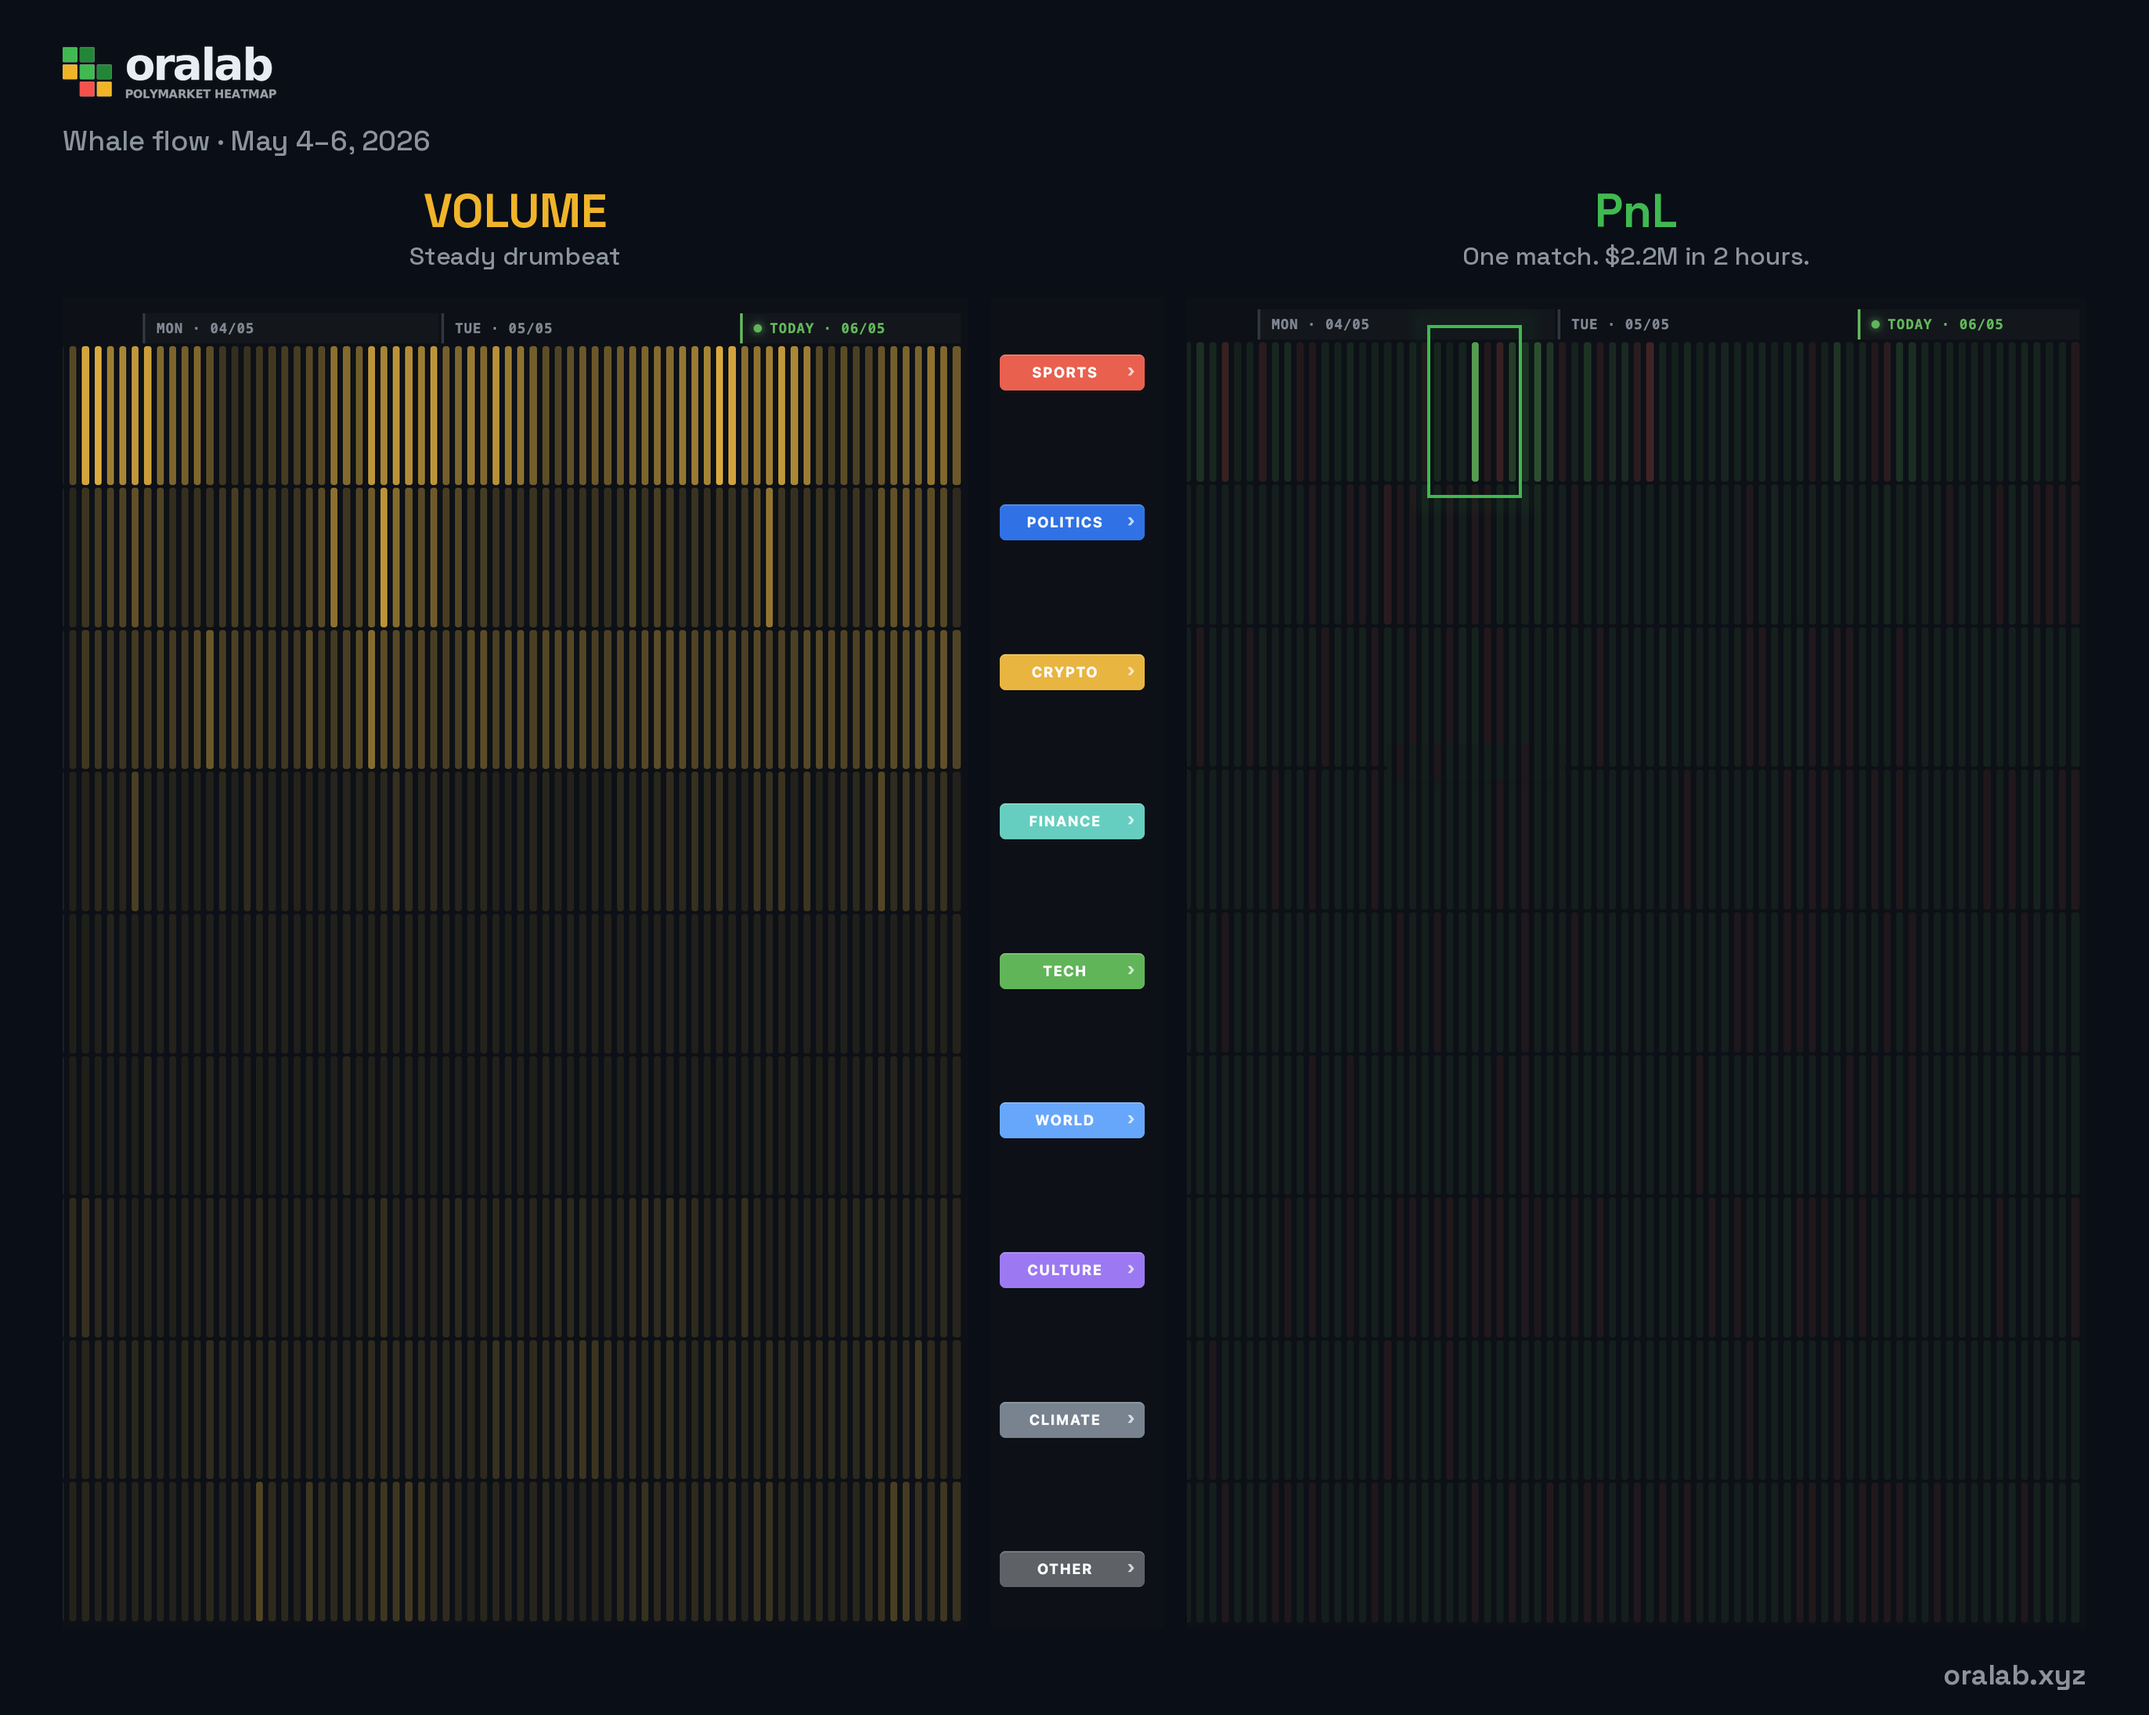
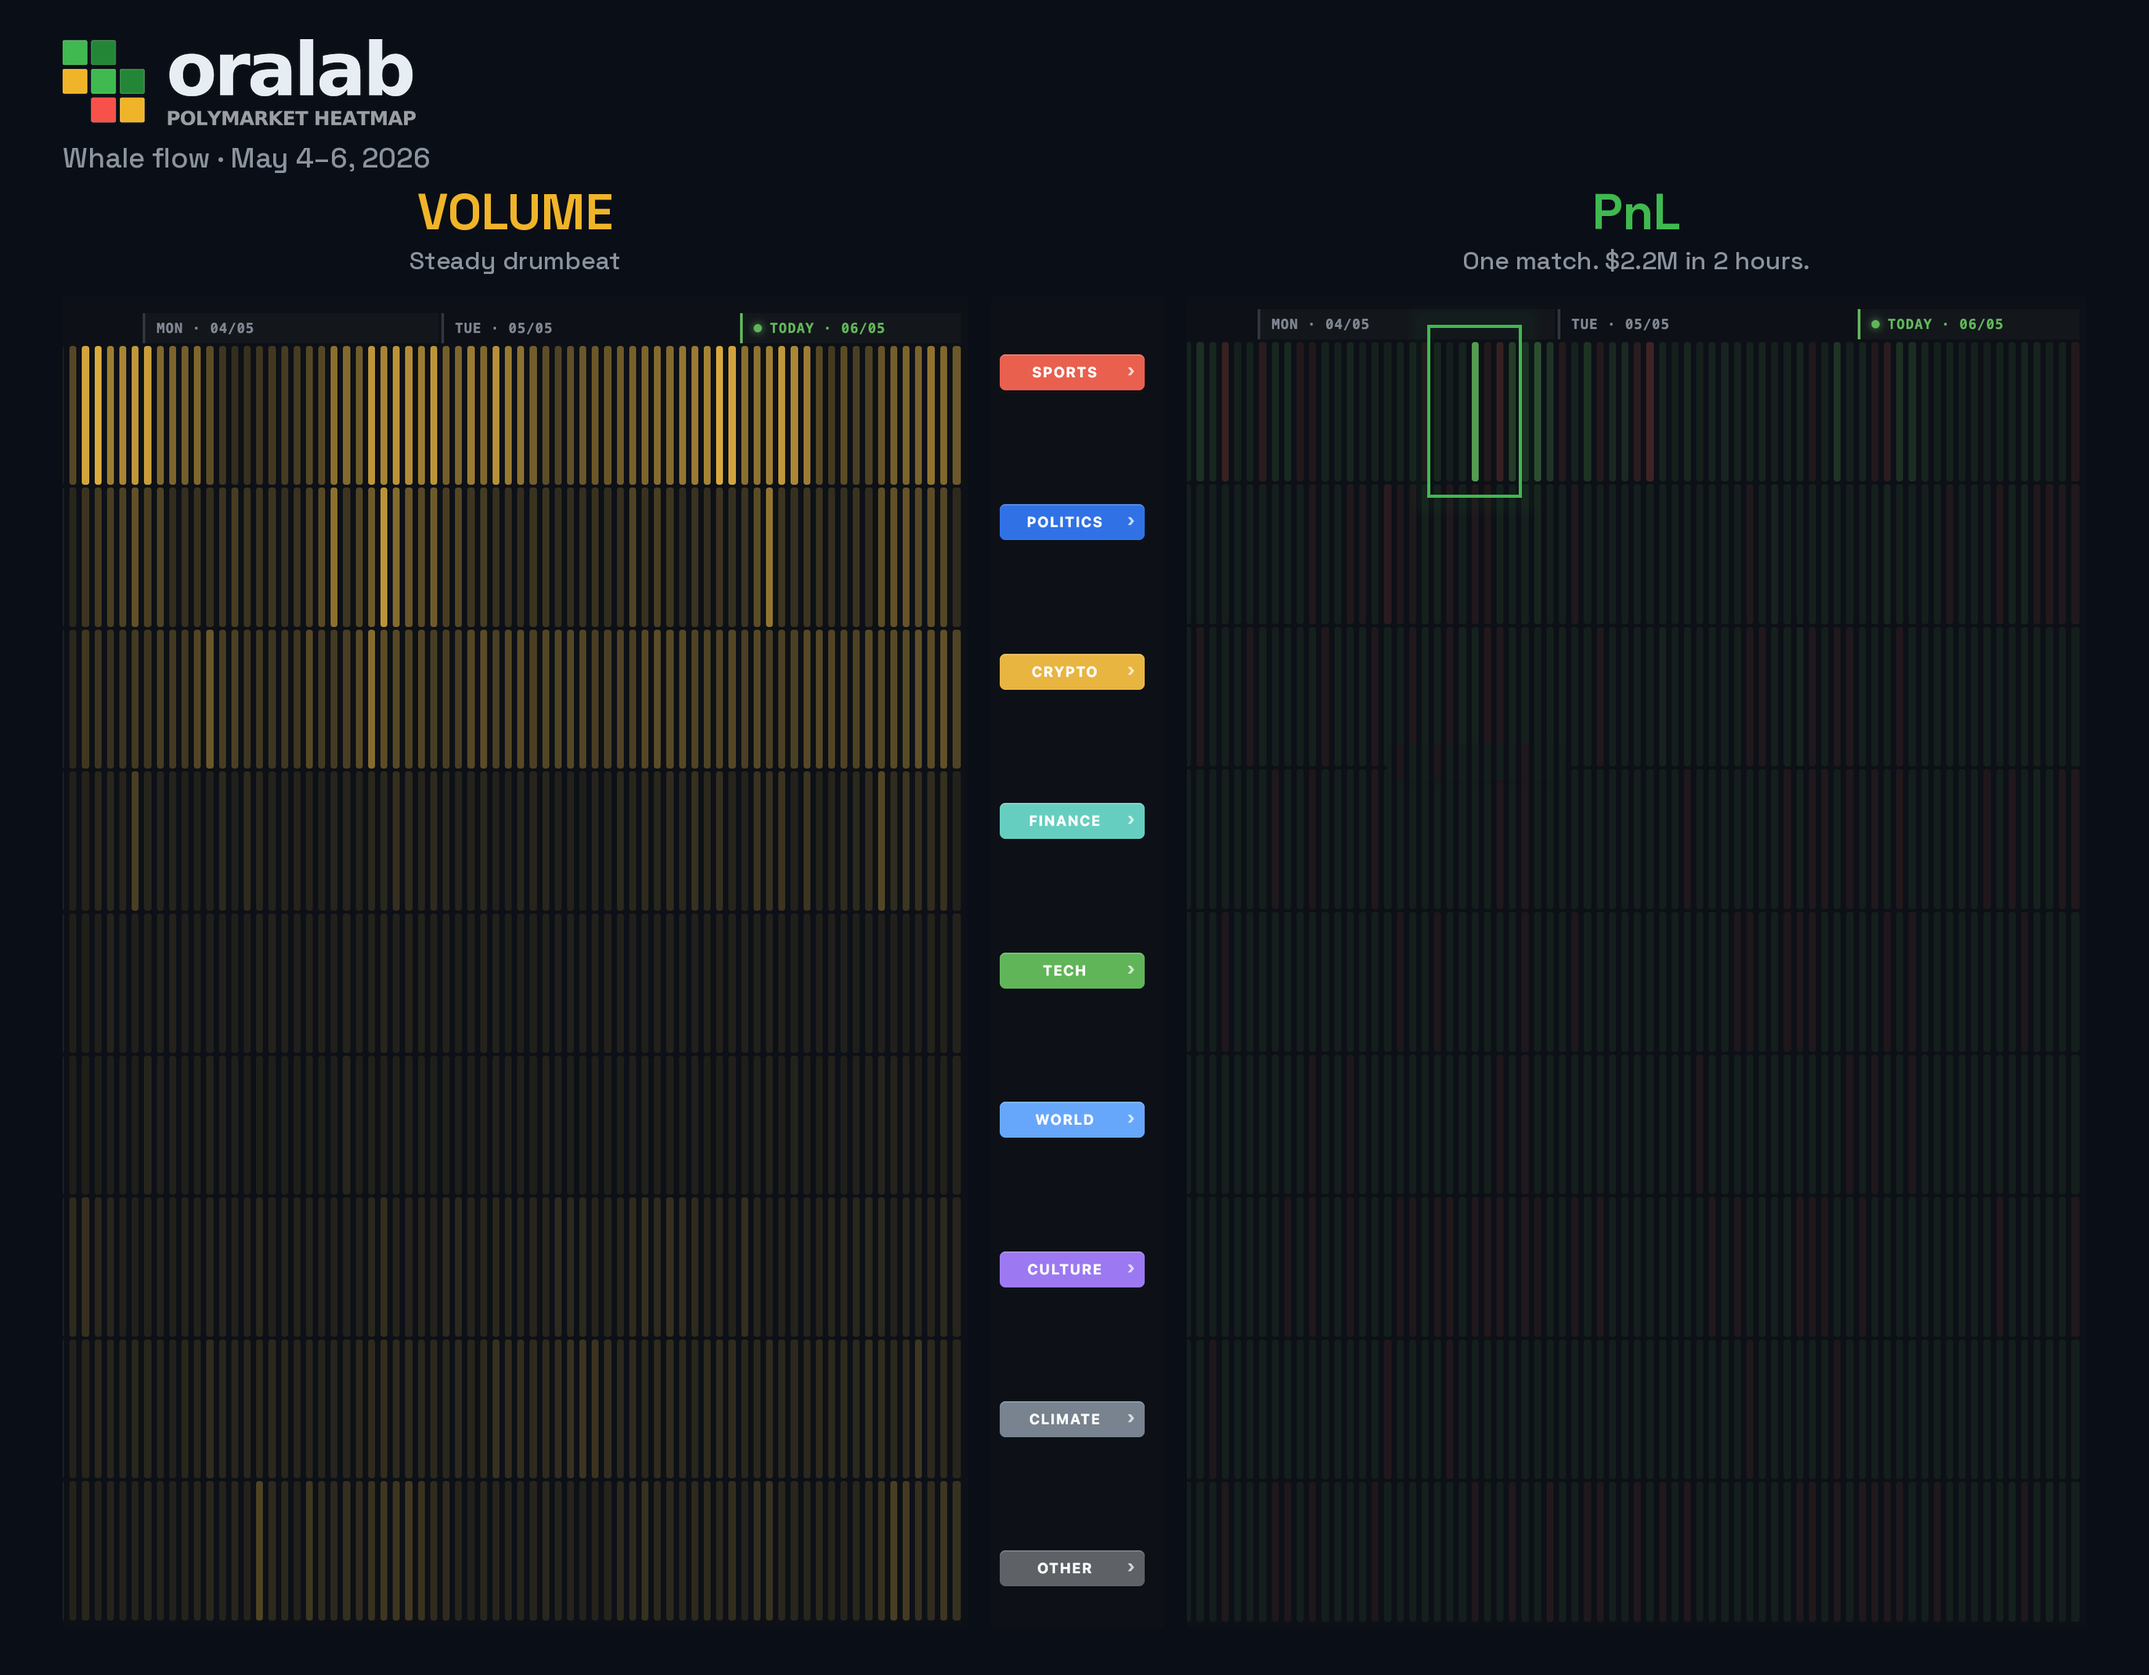
fix(tg): use TG-reported viewport height so StatsBar stays on screen
In Mini App fullscreen mode, 100dvh ≠ the actual visible WebView area
because Telegram's bottom panel + safe-area chrome is layered on top
of the document. The app-shell rendered slightly taller than the
visible region and pushed StatsBar (and the Footer below it) past the
bottom edge.

What changed:
- /tg client.tsx now requestFullscreen() + disableVerticalSwipes()
  (Bot API 8.0 / 7.7), then writes Telegram.WebApp.viewportStableHeight
  to a CSS variable on every viewportChanged event.
- New globals.css rule: body.tg-mini-app .app-shell uses
  var(--tg-viewport-height, 100dvh). Web users keep the dvh fallback;
  TG Mini App users get the exact pixel height reported by Telegram so
  the bottom row of chrome (StatsBar + Footer) stays above the fold.
- TelegramWebApp type extended with viewportHeight,
  viewportStableHeight, onEvent/offEvent so the TS surface matches
  the runtime calls we make.

diff --git a/packages/web/src/app/tg/client.tsx b/packages/web/src/app/tg/client.tsx
@@ -13,12 +13,32 @@ type TelegramWebApp = {
   initDataUnsafe?: { user?: { id?: number; username?: string } };
   ready: () => void;
   expand: () => void;
+  /** TG-reported visible height inside the WebView. Different from
+   *  100dvh: TG accounts for its own bottom panel, the keyboard, and
+   *  fullscreen-mode safe areas. When this value changes (keyboard
+   *  open, swipe-collapse, fullscreen toggle) `viewportChanged` fires
+   *  and we resize the app shell so StatsBar stays on-screen. */
+  viewportHeight: number;
+  viewportStableHeight: number;
+  onEvent?: (event: string, cb: () => void) => void;
+  offEvent?: (event: string, cb: () => void) => void;
   /** Background colour shown behind the WebView while it loads. */
   setBackgroundColor?: (color: string) => void;
   setHeaderColor?: (color: string) => void;
   /** Detected app theme — "dark" or "light". We're a dark app, so we
    *  ignore this for now; v1.x can adapt if there's demand. */
   colorScheme?: "light" | "dark";
+  /** Bot API 8.0+ — request the "no TG chrome" fullscreen mode. The
+   *  BotFather Launch Mode = Fullscreen sets this as the default
+   *  behaviour, but the API call is the explicit/programmatic path
+   *  and is safe to call even when the launch mode handles it
+   *  automatically (no-ops on platforms that don't support it). */
+  requestFullscreen?: () => void;
+  isFullscreen?: boolean;
+  /** Bot API 7.7+ — silence the "swipe-down to close" gesture so a
+   *  user dragging across our scrollable middle pane doesn't close
+   *  the Mini App by accident. */
+  disableVerticalSwipes?: () => void;
 };
 
 declare global {
@@ -77,10 +97,29 @@ export function TgMiniApp() {
         // and request full viewport — the heatmap needs every px.
         wa.ready();
         wa.expand();
+        // Bot API 8.0+ Launch Mode = Fullscreen handshake. Both
+        // calls no-op on older clients / desktop, safe to call.
+        wa.requestFullscreen?.();
+        wa.disableVerticalSwipes?.();
         // Match our app shell colours so the seam between native
         // chrome and our content is invisible.
         wa.setBackgroundColor?.(TOKENS.bg);
         wa.setHeaderColor?.(TOKENS.bg);
+
+        // Mark the body so the .app-shell CSS can switch from 100dvh
+        // (works for plain mobile Safari) to the TG-reported viewport
+        // height (which actually accounts for fullscreen safe areas
+        // and the bottom panel). Without this swap the StatsBar gets
+        // pushed below the fold in TG fullscreen mode.
+        document.body.classList.add("tg-mini-app");
+        const syncViewport = (): void => {
+          document.documentElement.style.setProperty(
+            "--tg-viewport-height",
+            `${wa.viewportStableHeight || wa.viewportHeight}px`,
+          );
+        };
+        syncViewport();
+        wa.onEvent?.("viewportChanged", syncViewport);
 
         // No initData ⇒ page opened outside Telegram (someone shared
         // the URL to a regular browser). Show a hint, don't try to

diff --git a/packages/web/src/app/globals.css b/packages/web/src/app/globals.css
@@ -67,3 +67,13 @@ body {
   height: 100vh;
   height: 100dvh;
 }
+
+/* Telegram Mini App context — TG WebView reports viewport height via
+   Telegram.WebApp.viewportHeight, which respects fullscreen safe-area
+   insets and the bottom panel. /tg client.tsx writes this to
+   --tg-viewport-height on every viewportChanged event; we prefer it
+   here so StatsBar + Footer stay above the fold instead of getting
+   clipped by 100dvh's slightly-too-tall measurement inside TG. */
+body.tg-mini-app .app-shell {
+  height: var(--tg-viewport-height, 100dvh);
+}
